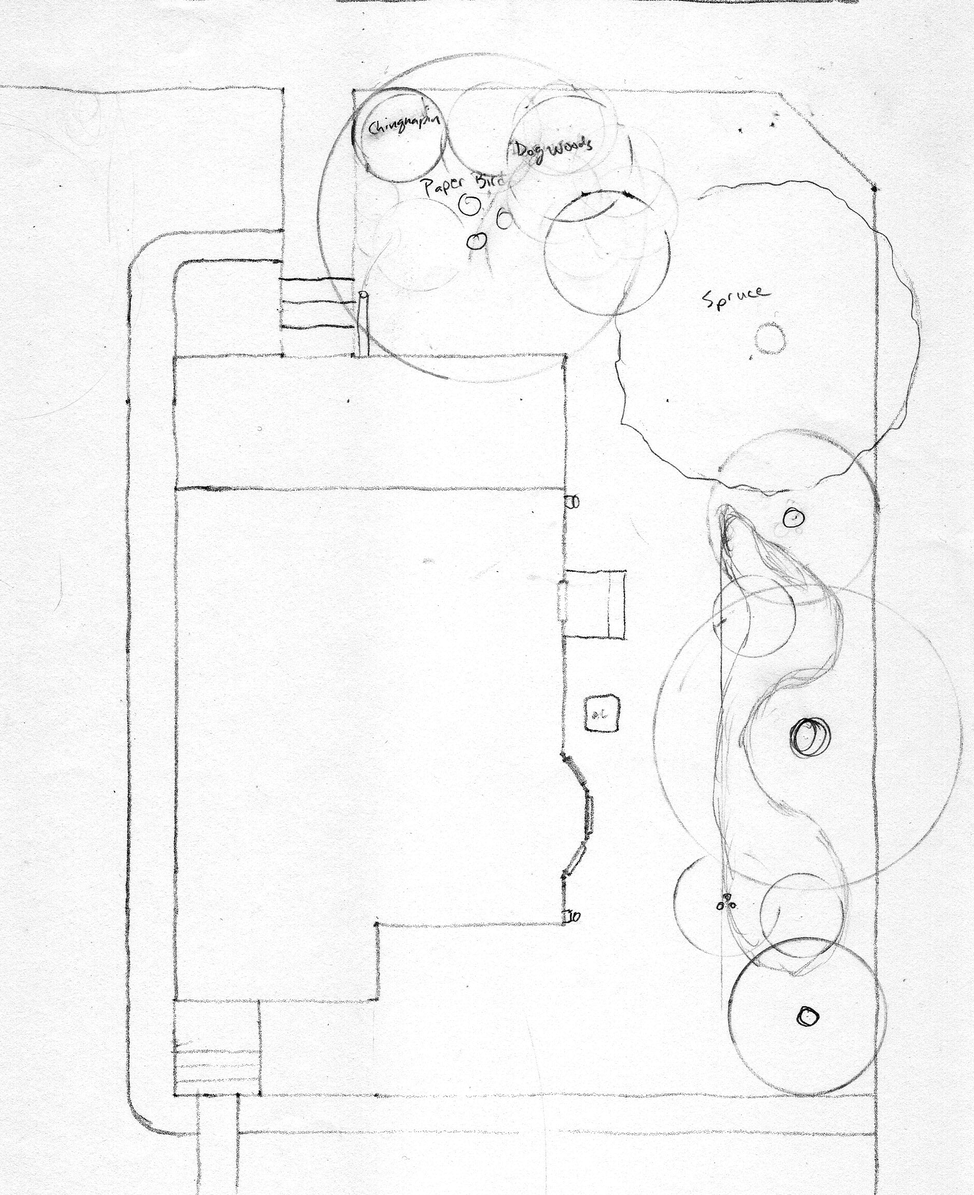
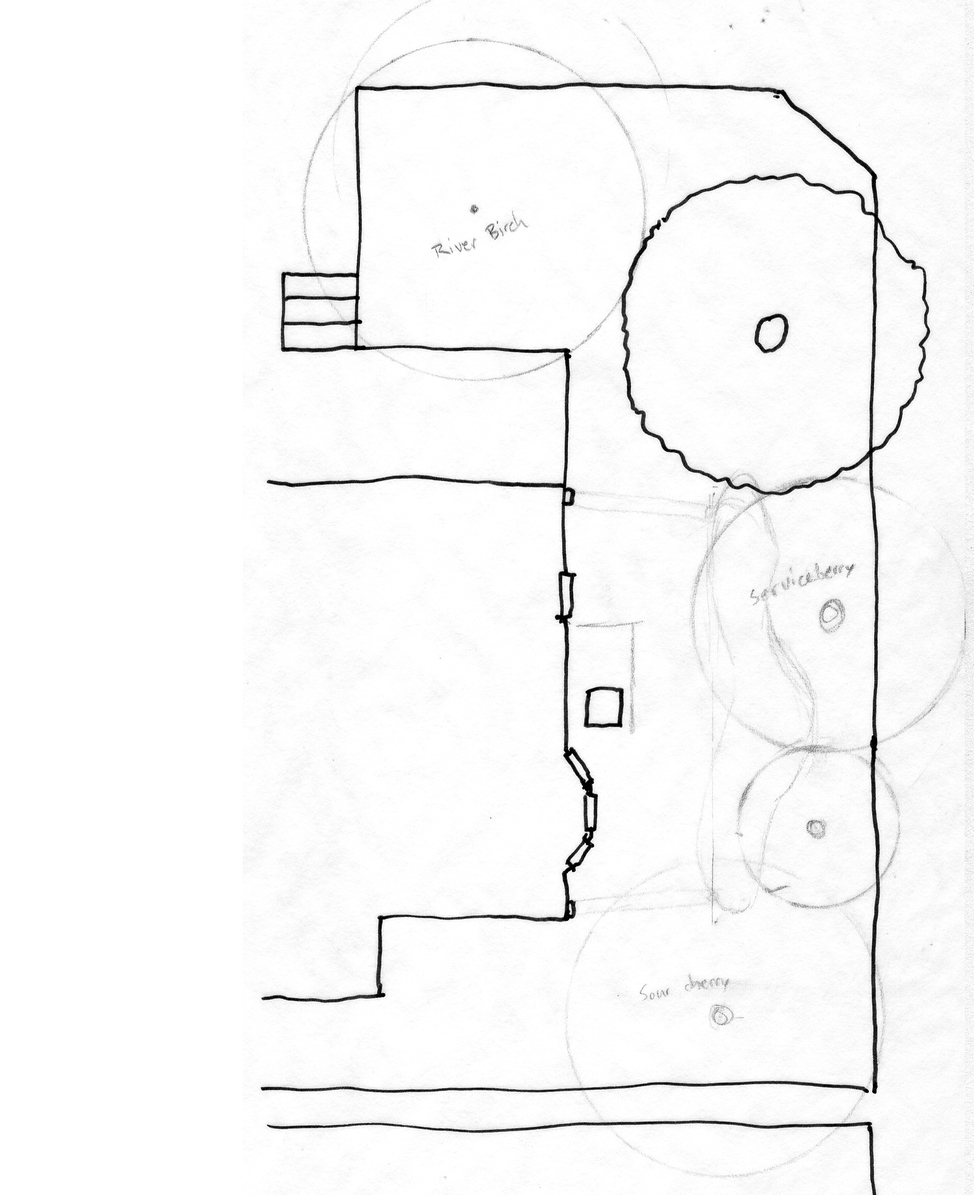
More images for rain garden sketches

diff --git a/_drafts/how-to-plan-a-garden-part-two.md b/_drafts/how-to-plan-a-garden-part-two.md
@@ -153,6 +153,9 @@ The rain garden was one of the most complicated areas, reflected in the number o
 {% gallery %}
 {% gallery_image path: assets/images/how-to-plan-a-garden/rain-garden-sketch-1.jpg, alt: "Sketch of a potential rain garden layout" %}
 {% gallery_image path: assets/images/how-to-plan-a-garden/rain-garden-sketch-2.jpg, alt: "Sketch of a potential rain garden layout" %}
+{% gallery_image path: assets/images/how-to-plan-a-garden/rain-garden-sketch-3.jpg, alt: "Sketch of a potential rain garden layout" %}
+{% gallery_image path: assets/images/how-to-plan-a-garden/rain-garden-sketch-4.jpg, alt: "Sketch of a potential rain garden layout" %}
+{% gallery_image path: assets/images/how-to-plan-a-garden/rain-garden-sketch-5.jpg, alt: "Sketch of a potential rain garden layout" %}
 {% endgallery %}
 
 Once I had a base map, I could use tracing paper to quickly create copies of a map to sketch different ideas on.
